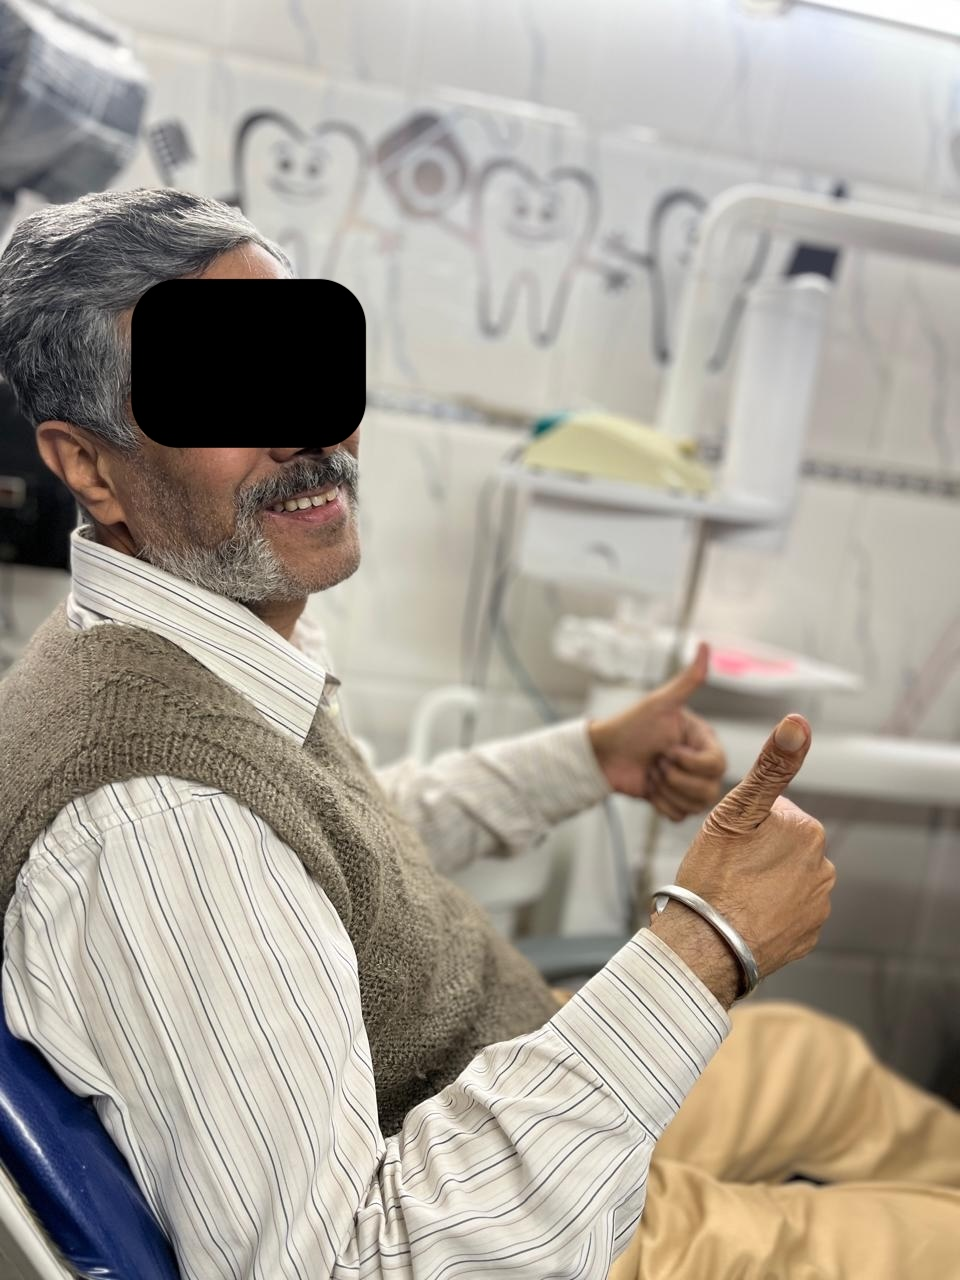
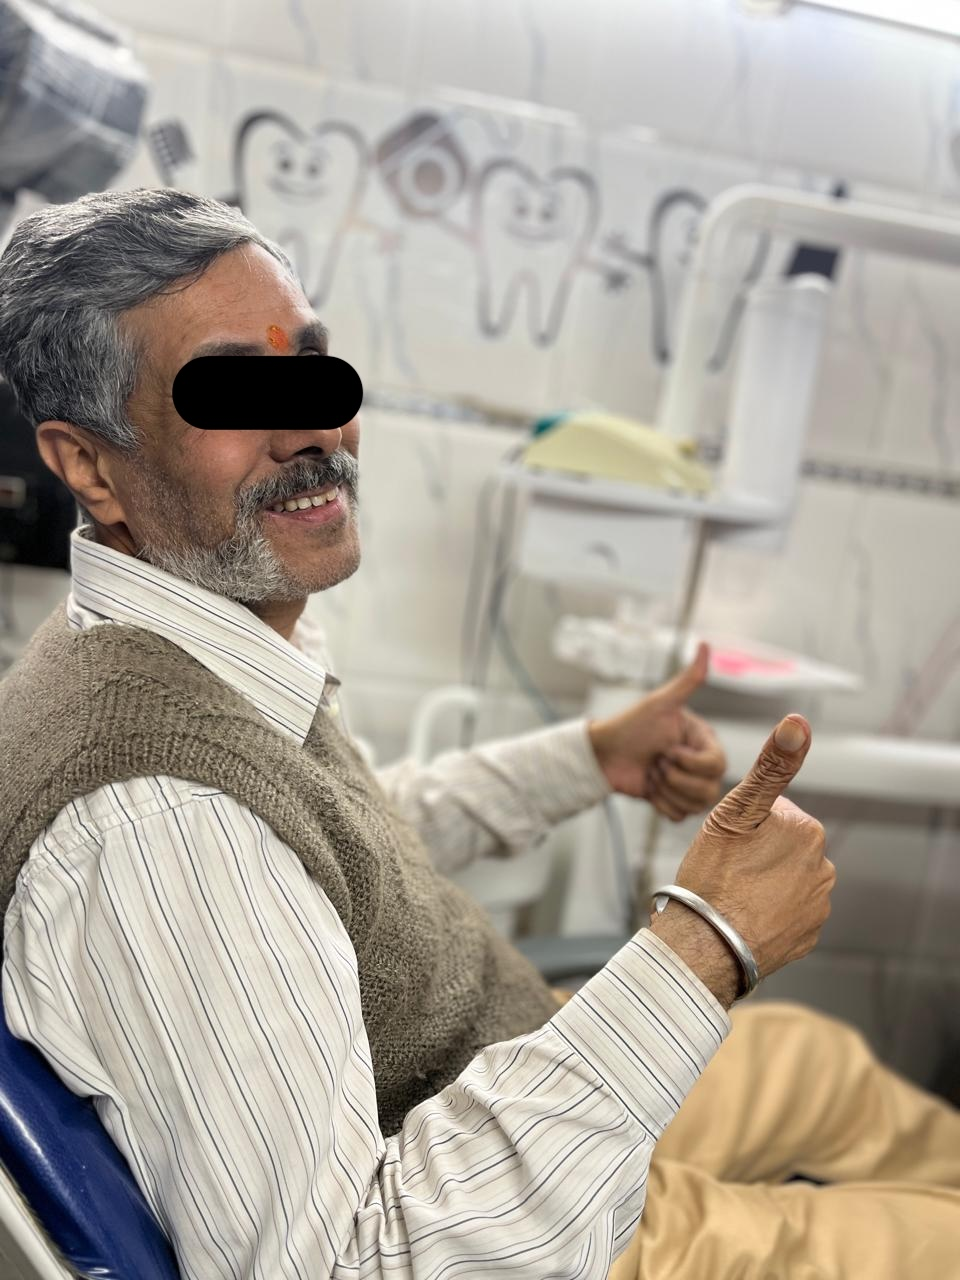
update name and add image in slider

Changed region(s): [[0.125, 0.2188, 0.4062, 0.375]]

diff --git a/index.html b/index.html
@@ -26,7 +26,7 @@
     best dental clinic in delhi,
     best dentist in delhi,
     dentist near me,
-    dental clinic near jama masjid,
+    dental clinic near jama masjid old delhi,
     dental implants delhi,
     root canal treatment delhi,
     painless root canal delhi,
@@ -38,7 +38,21 @@
     dental surgery delhi,
     dr ekhlaq ahmed dentist,
     mr dental clinic delhi,
-    dental clinic old delhi
+    dental clinic old delhi,
+    regenerative dentistry delhi,
+    affordable dental clinic delhi,
+    top dental clinic delhi,
+    advanced dental clinic delhi,
+    family dental clinic delhi,
+    emergency dental care delhi,
+    dental checkup delhi,
+    complete oral care delhi,
+    oral related problem delhi,
+    regenerate your smile delhi,
+    regenerative dentistry,
+    don't extract teeth, regenerate delhi,
+    save your natural teeth delhi,
+    restore your smile delhi,
     "
     />
 
@@ -61,10 +75,9 @@
     <meta property="og:site_name" content="MR Dental Clinic" />
 
     <meta
-  property="og:title"
-  content="MR Dental Clinic | Regenerate Your Smile | Dr. Ekhlaq Ahmed | Best Dental Clinic in Delhi"
-/>
-
+      property="og:title"
+      content="MR Dental Clinic | Regenerate Your Smile | Dr. Ekhlaq Ahmed | Best Dental Clinic in Delhi"
+    />
 
     <meta
       property="og:description"
@@ -975,7 +988,7 @@
             <h2
               class="slider-title text-3xl md:text-4xl lg:text-5xl font-montserrat font-extrabold mb-4 text-white"
             >
-              Maximum Regenerative Dental Clinic
+              <span class="text-primary-red">Maximum</span> <span class="text-green-500">Regenerative</span> <span class="text-sky-400 font-semibold">Dental Clinic</span> 
             </h2>
             <p
               class="slider-subtitle text-lg md:text-xl opacity-90 text-grey-200"
@@ -1056,6 +1069,24 @@
             </p>
           </div>
         </div>
+        
+        <div
+  class="slider-slide absolute top-0 left-0 w-full h-full flex items-center justify-center bg-center bg-no-repeat"
+  style="
+    background-image: url('./static/images/dr-img-abdHind.jpeg');
+    background-size: contain;
+  "
+>
+</div>
+
+        <div
+  class="slider-slide absolute top-0 left-0 w-full h-full flex items-center justify-center bg-center bg-no-repeat"
+  style="
+    background-image: url('./images/dr-ekhlaq-ahmed.jpeg');
+    background-size: contain;
+  "
+>
+</div>
 
         <!-- Navigation Buttons -->
         <button
@@ -1162,12 +1193,11 @@
           </div>
         </div>
 
-        <div class="lg:w-2/3 mx-auto text-center scroll-fade-in">
+        <div class="l:w-2/3 mx-auto text-center scroll-fade-in">
           <h1
             class="hero-main-title text-3xl md:text-4xl lg:text-5xl font-montserrat font-extrabold text-grey-900 mb-4 md:mb-5 leading-tight"
           >
-            <span class="text-primary-red">Maximum Regenerative</span> Dental
-            Clinic
+            <span class="text-primary-red">Maximum</span> <span class="text-green-500">Regenerative</span> <span class="text-sky-400 font-semibold">Dental Clinic</span>
             <span
               class="regenerate-text text-4xl md:text-5xl lg:text-6xl block mt-2 md:mt-3 text-accent-gold animate-glow bg-gradient-to-br from-accent-gold to-orange-400 bg-clip-text text-transparent"
               >Regenerate Your Smile</span
@@ -1178,7 +1208,7 @@
             class="hero-subtitle text-grey-700 text-base md:text-lg mb-6 md:mb-8 max-w-3xl mx-auto"
           >
             <strong class="font-bold text-primary-red"
-              >Awarded as the Best Dental Clinic in India</strong
+              >Awarded as the Best Dental Clinic</strong
             ><br />
             Regenerative dentistry led by Dr. Ekhlaq Ahmed, delivering advanced,
             aesthetic, and long-lasting dental solutions with international
@@ -1585,7 +1615,7 @@
         <h2
           class="section-title text-2xl md:text-3xl font-montserrat font-extrabold mb-10 text-center relative scroll-fade-in"
         >
-          M R Dental (Maximum Regenerative) Clinic
+          <span class="text-primary-red">M</span><span class="text-green-400">R</span> <span class="text-sky-400">Dental</span> (Maximum Regenerative) <span class="text-sky-400" >Clinic</span>
           <div
             class="absolute -bottom-2 left-1/2 -translate-x-1/2 w-24 h-1 bg-white rounded"
           ></div>
@@ -1975,7 +2005,7 @@
                 <i class="fas fa-star text-yellow-400"></i>
                 <i class="fas fa-star text-yellow-400"></i>
                 <i class="fas fa-star text-yellow-400"></i>
-                <span class="ml-2 text-grey-600">(200+ reviews)</span>
+                <span class="ml-2 text-grey-600">(300+ reviews)</span>
               </div>
             </div>
             <div class="border-l border-grey-300 pl-6 text-left">
@@ -2370,7 +2400,7 @@
               target="_blank"
               class="inline-flex items-center gap-2 bg-gradient-red-blue text-white px-6 py-3 rounded-full font-semibold hover:shadow-lg transition-all duration-300 hover:-translate-y-1 border border-primary-red/20"
             >
-              <i class="fab fa-google"></i> View All 200+ Google Reviews
+              <i class="fab fa-google"></i> View All 300+ Google Reviews
             </a>
             <a
               href="#contact"
@@ -2468,14 +2498,33 @@
               Dr. Ekhlaq Ahmed
             </h3>
             <p class="text-white/90 font-medium mb-1 text-lg">
-              Founder & Lead Dental Surgeon
+              Founder & Director | Lead Dental Surgeon
             </p>
-            <p class="leading-relaxed text-lg mb-2">
+            <!-- CLINIC NAME -->
+            <p class="leading-relaxed text-lg mb-2 font-semibold">
+              <span class="text-red-400">Maximum</span>
+              <span class="text-emerald-400">Regenerative</span>
+              <span class="text-sky-400 font-semibold">Dental Clinic</span>
+            </p>
+
+            <!-- COMPANY -->
+            <p class="text-slate-300 font-medium">
+              <span class="text-blue-400 font-bold">Abd Hind</span>
+              <span class="text-emerald-400 font-bold">Medi</span
+              ><span class="text-red-400 font-bold">Care</span>
+              <span class="text-slate-400">Group Pvt. Ltd</span>
+            </p>
+
+            <!-- <p class="leading-relaxed text-lg mb-2">
               <span class="text-red-400 font-semibold">
-                Maximum Regenerative
+                Maximum
+              </span>
+              <span class="text-green-400 font-semibold">
+                Regenerative
               </span>
               <span class="text-blue-400 font-semibold"> Dental Clinic </span>
             </p>
+            <p><span class="text-red-400 font-bold">Abd</span> <span class="text-green-400 font-bold">Hind</span> <span class="text-blue-400 font-bold">Medi</span><span class="text-red-400 font-bold">Care</span> <span class="text-green-400 font-bold">Group </span>Pvt. Ltd</p> -->
             <p class="text-sm text-white/70">
               <span class="inline-flex items-center gap-1">
                 <svg class="w-4 h-4" fill="currentColor" viewBox="0 0 20 20">
@@ -2988,7 +3037,7 @@
         </div>
 
         <!-- COPYRIGHT -->
-        <div
+        <!-- <div
           class="text-center pt-6 border-t border-grey-800 text-grey-400 text-sm"
         >
           <p class="mb-2">
@@ -2996,8 +3045,39 @@
             Reserved.
           </p>
           <p class="text-xs">Dr. Ekhlaq Ahmed | Regenerate Your Smile</p>
-        </div>
+        </div> -->
+ <div
+  class="pt-6 border-t border-slate-700 text-slate-400 text-sm flex items-center justify-center"
+>
+  
+  <!-- LEFT: LOGO -->
+  <img
+    src="./static/images/logo.png"
+    alt="Abd Hind Medicare Group"
+    class="h-16 object-contain opacity-90 hover:opacity-100 transition mr-2"
+  />
 
+  <!-- RIGHT: TEXT -->
+  <div class="leading-tight">
+    
+    <p class="mb-1">
+      &copy; 2025 Maximum Regenerative Dental Clinic. All Rights Reserved.
+    </p>
+
+    <p class="text-xs text-slate-500">
+      A Unit of 
+      <span class="text-emerald-400 font-medium">
+        Abd Hind Medicare Group Pvt. Ltd
+      </span>
+    </p>
+
+    <p class="text-xs mt-1">
+      Dr. Ekhlaq Ahmed | Regenerate Your Smile
+    </p>
+
+  </div>
+
+</div>
         <!-- DEVELOPER CREDIT -->
         <div class="text-center mt-4 pt-4 border-t border-grey-800">
           <p class="text-grey-400">
@@ -3162,7 +3242,7 @@
           path: "./images/smileMakeOver/img_24.jpg",
           category: "all",
         },
-         {
+        {
           filename: "img_17.jpeg",
           path: "./images/smileMakeOver/img_17.jpeg",
           category: "all",
@@ -3178,18 +3258,18 @@
           category: "all",
         },
 
-           {
+        {
           filename: "img_02.png",
           path: "./images/impactionAndSurgery/img_02.png",
           category: "all",
         },
 
-         {
+        {
           filename: "img_01.png",
           path: "./images/impactionAndSurgery/img_01.png",
           category: "all",
         },
-         {
+        {
           filename: "img_01.jpeg",
           path: "./images/happyPatients/img_01.jpeg",
           category: "all",
@@ -3200,7 +3280,7 @@
           category: "all",
         },
 
-         {
+        {
           filename: "img_04.jpeg",
           path: "./images/happyPatients/img_04.jpeg",
           category: "all",
